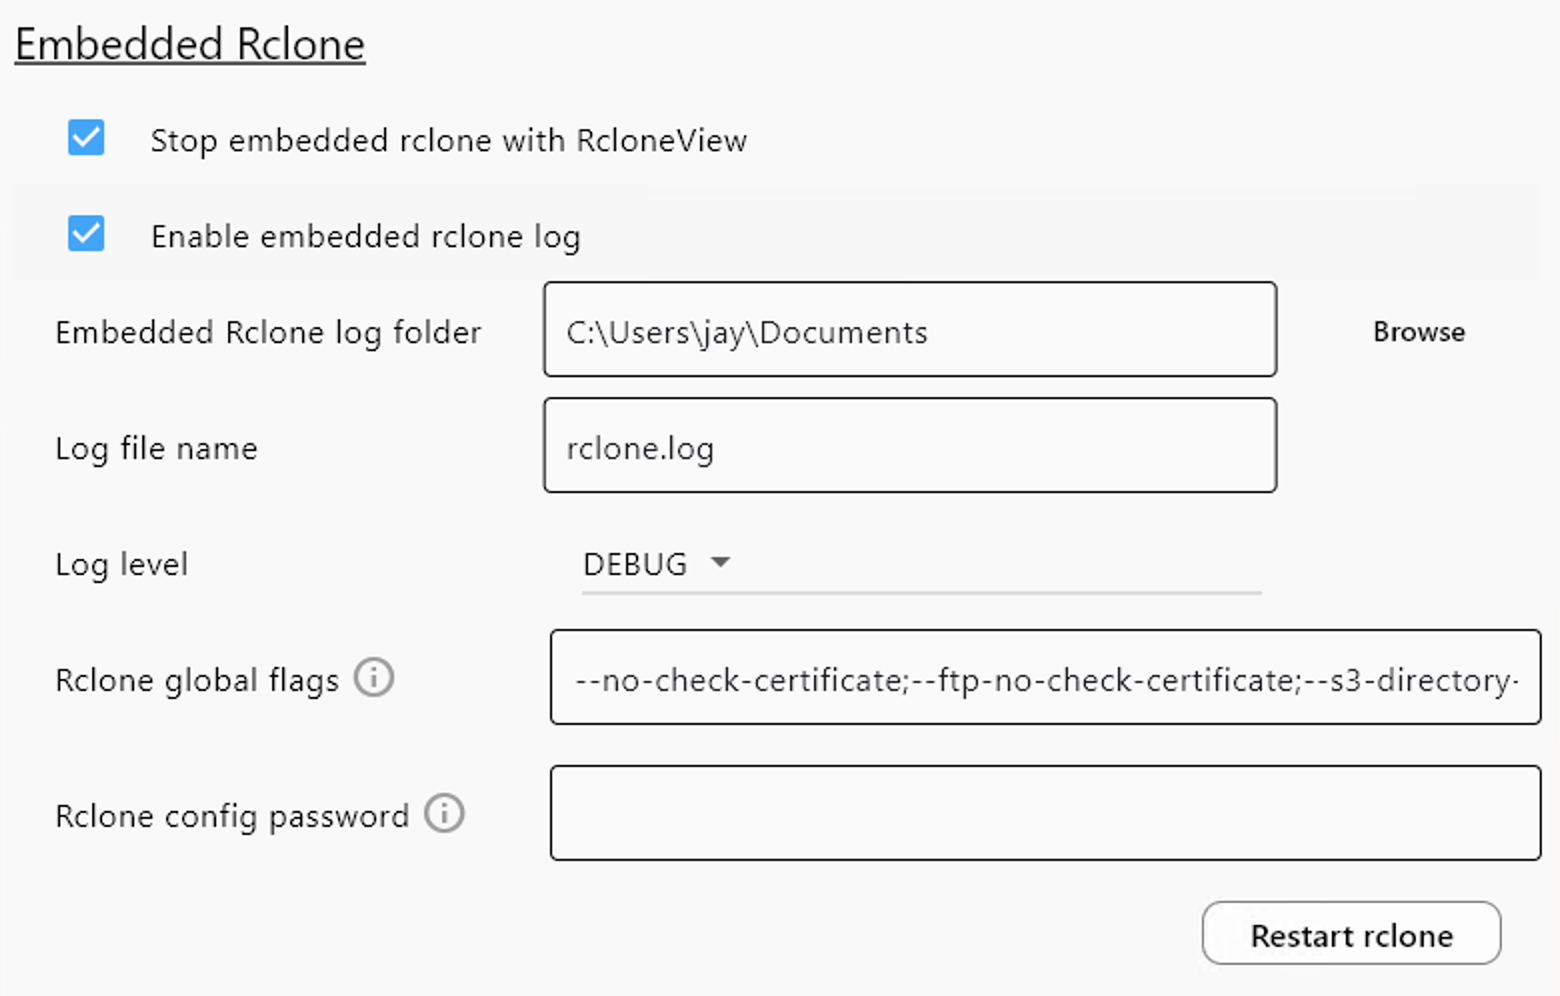
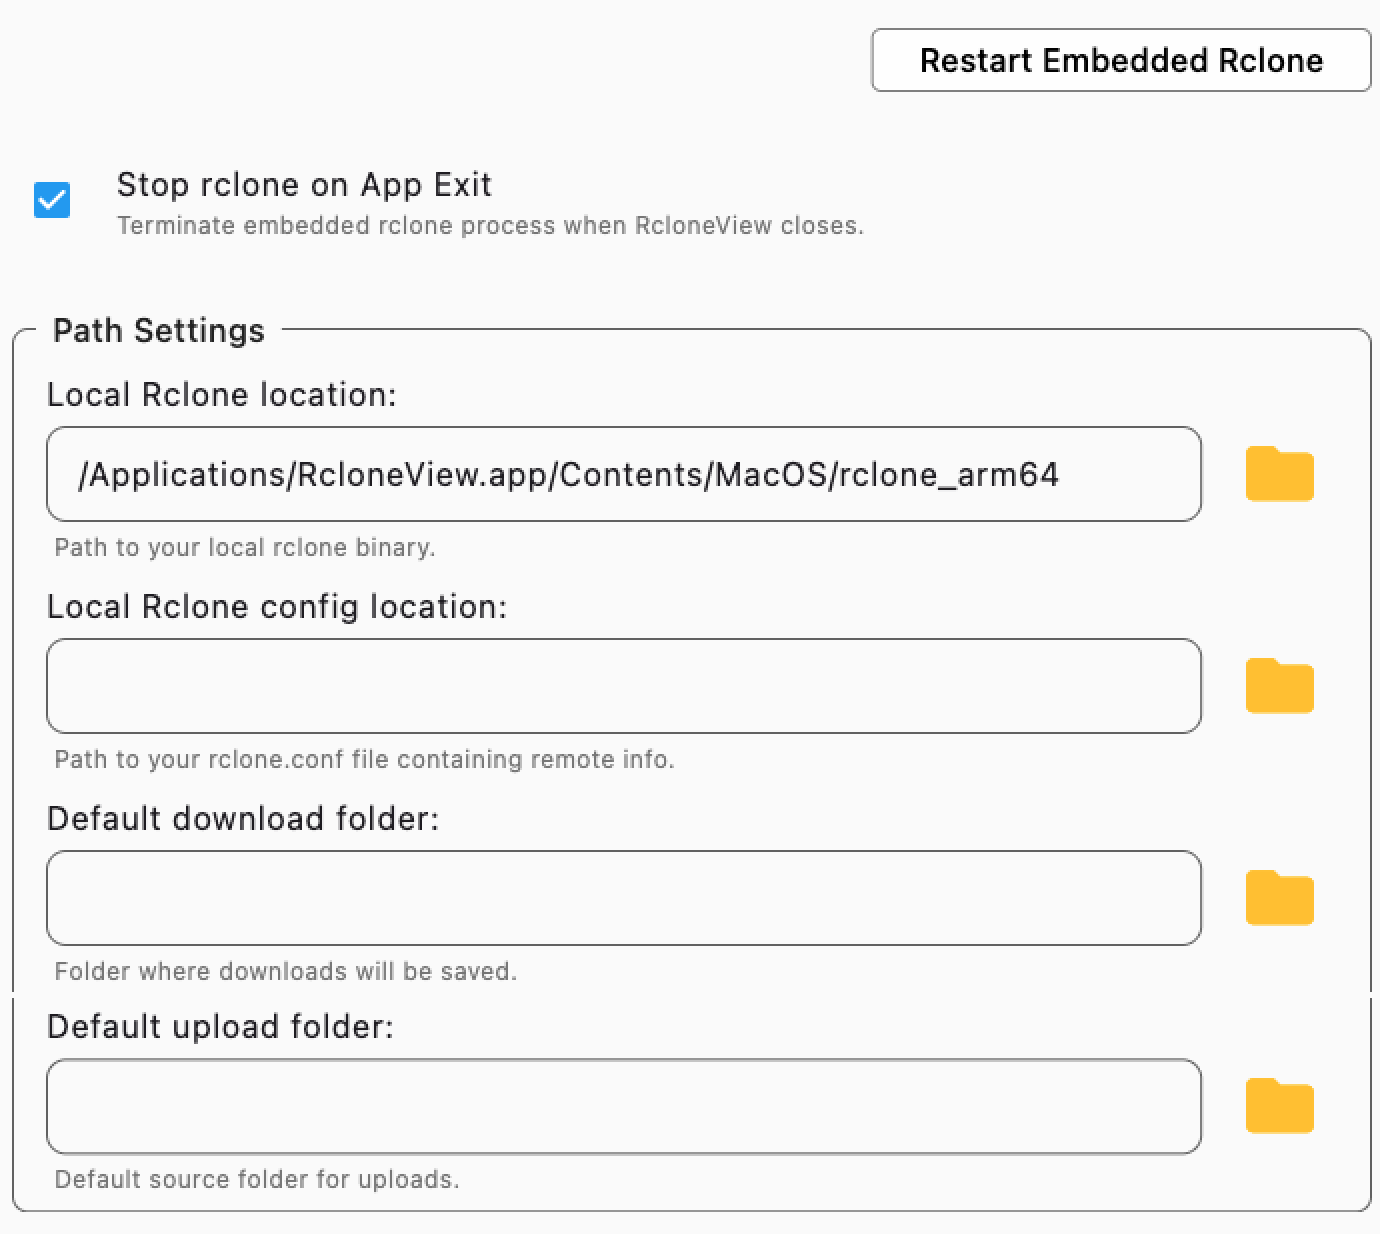
general settings 변경.

diff --git a/howto/rcloneview-basic/general-settings.md b/howto/rcloneview-basic/general-settings.md
@@ -1,6 +1,6 @@
 ---
 sidebar_position: 10
-description: Learn how to configure general preferences, interface layout, paths, and embedded Rclone settings in RcloneView.
+description: Learn how to configure general preferences, interface layout, Notifications, and embedded Rclone settings in RcloneView.
 keywords:
   - rcloneview
   - rclone
@@ -19,15 +19,27 @@ author: Jay
 ---
 # General Settings
 
-RcloneView's **Settings** page allows you to configure language, paths, logging options, and interface preferences. This guide explains each section and its functionality.
+RcloneView's **Settings** menu is divided into four tabs for better clarity and customization:
 
-## General Options
+- **General**
+- **Interfaces & Notifications**
+- **Embedded Rclone**
+- **Network & Misc.**
+
+Each tab allows you to configure different parts of the application. Below is a breakdown of each section.
+
+---
+
+## 🛠 General
 
 <img src="/support/images/en/howto/rcloneview-basic/general-settings.png" alt="general settings" class="img-medium img-center" />
+### Language
 
-- **Language**: Select your preferred language for the RcloneView user interface.  
+- **Language**: Choose your preferred UI language from the dropdown.
 
-- **Launch at login**: When enabled, RcloneView will automatically start when the user logs into the system.
+### Startup Behavior
+
+- **Launch at login**: Automatically starts RcloneView when you log into your system.
 
 :::important Auto Start: Scheduling and Mounting
 
@@ -37,67 +49,102 @@ When **Launch at login** is enabled:
 - Any remotes configured for auto-mounting in the [**Mount Manager**](./mount-cloud-storage-as-a-local-drive.md#method-1-mount-from-remote-explorer) will be mounted automatically when RcloneView starts.  
 :::
 
-### Locations
-Specify the locations for key components:
+- **Start minimized**: Launches RcloneView into the system tray.
 
-- **Local Rclone location**: Path to the `rclone` binary.
-- **Local Rclone config location**: Path to `rclone.conf`, where remote definitions are stored.
-- **Default download folder**: Folder used for downloads from remote to local.
-- **Default upload folder**: Folder used as the source for uploads to remote.
+- **Auto-detect Synology NAS**: Automatically scan the local network for Synology NAS devices.
 
-:::caution Restart rclone Required to Apply Location Changes
+### Reset
 
-Click **`Restart rclone`** to apply any changes made to the location settings.  
-This will restart the embedded Rclone instance and may interrupt any currently running jobs.  
-
-:::
-
-## Interface Preferences
-
-<img src="/support/images/en/howto/rcloneview-basic/interface-settings.png" alt="interface settings" class="img-medium img-center" />
-Customize how the interface behaves:
-
-- **Dark mode**: Enable dark theme.
-- **Theme color**: Choose from predefined accent colors.
-- **Confirm drag and drop**: Prompts confirmation when dragging files.
-- **Jobs view items**: Show or hide job types: Download, Upload, Sync.
-- **Show job state log**: Notify dialog to displays logs for each job execution.
-- **Show comparison completed**: Alerts dialog when folder comparison finishes.
-- **Show confirmation dialog before deleting files in compare**: Confirm dialog to add extra safety before deletion.
-- **Show sync completion notification**: Notify dialog when sync job completes.
-- **Show network error dialog**: Alert dialog for network failures.
-
-## Embedded Rclone Configuration
-
-<img src="/support/images/en/howto/rcloneview-basic/embedded-rclone-settings.png" alt="embedded rclone settings" class="img-medium img-center" />
-- **Stop embedded rclone with RcloneView**: Terminates the rclone process when RcloneView closes.
-- **Enable embedded rclone log**: Enables logging for embedded rclone operations.
-	Logging options:  
-	- **Log folder**: Path where log files are saved.  
-	- **Log file name**: Customize the filename for rclone logs.  
-	- **Log level**: Choose from standard rclone log levels (DEBUG, INFO, NOTICE, ERROR).  
-
-Advanced options:  
-- **Rclone global flags**: Enter any global rclone flags (e.g. `--no-check-certificate`).  
-- **Rclone config password**: Password for encrypted rclone configurations. If you set this password, then rclone config files will be encrypted.  
-
-:::caution Restart rclone Required to Apply Embedded Rclone Settings
-
-Click **`Restart rclone`** to apply any changes made to the Embedded Rclone settings.  
-This will restart the embedded Rclone instance and may interrupt any currently running jobs.  
-
-:::
-
-## Network & Logs
-
-<img src="/support/images/en/howto/rcloneview-basic/network-etc-settings.png" alt="network etc settings" class="img-medium img-center" />
-### Network
-- **`Proxy settings`**: Features coming soon.
-- **`Rclone connection manager`**: Open [**Connection Manager**](./connection-manager.md)
-
-### Etc
-- **`Application Log`**: Open log viewer for app-level logs.
-
-- **`Restore Settings`**: Reset all settings to default values.
+- **Restore Default Settings**: Resets all options to their original default values.
 
 ---
+
+## 🎛  Interfaces & Notifications
+
+<img src="/support/images/en/howto/rcloneview-basic/interface-settings.png" alt="interface settings" class="img-medium img-center" />
+### UI Appearance
+
+- **Dark mode**: Toggle between light and dark themes.
+- **Theme color**: Choose from available accent colors.
+
+### Drag and Drop
+
+- **Confirm drag and drop**: Enables a confirmation popup when moving files via drag-and-drop.
+
+### Show Job Types (Transfer Log Filters)
+
+Select which types of jobs to display in the Transfer Log panel:
+- **Download**
+- **Upload**
+- **Sync**
+
+<img src="/support/images/en/howto/rcloneview-basic/notification-dialogs-settings.png" alt="notification dialogs settings" class="img-medium img-center" />
+### Notification Dialogs
+
+Decide which types of pop-up notifications you'd like to receive while using RcloneView:
+
+- **Show job state log**: Display a detailed log dialog after each transfer job finishes.
+- **Show comparison completed**: Notify when a folder comparison task has completed successfully.
+- **Show confirmation before deleting files in compare**: Ask for confirmation before deleting any files during folder comparison.
+- **Show sync completion notification**: Show a message when a sync operation finishes.
+- **Show network error dialog**: Alert you immediately if a network connection error occurs during a job.
+
+---
+
+## ⚙ Embedded Rclone
+
+<img src="/support/images/en/howto/rcloneview-basic/embedded-rclone-settings.png" alt="embedded rclone settings" class="img-medium img-center" />
+
+### Embedded Lifecycle
+
+- **Stop rclone on App Exit**: Automatically shuts down the embedded `rclone` process when RcloneView is closed.
+
+:::caution Restart Required After Any Changes
+
+After modifying any setting in the **Embedded Rclone** tab — including path configuration, global flags, or logging options — click **Restart Embedded Rclone** to apply the changes.  
+This will restart the embedded Rclone process and may interrupt any currently running jobs.
+
+:::
+### Path Settings
+
+- **Local Rclone location**: Absolute path to your `rclone` binary.
+- **Local Rclone config location**: Path to your `rclone.conf` file (contains remote info).
+- **Default download folder**: Directory where downloaded files will be saved.
+- **Default upload folder**: Directory used as the source for upload jobs.
+
+   <img src="/support/images/en/howto/rcloneview-basic/embedded-rclone-advanced-options-settings.png" alt="embedded rclone advanced options settings" class="img-medium img-center" />
+### Advanced Options
+
+- **Global Rclone Flags**: Additional flags to pass to rclone (e.g., `--s3-directory-markers`).
+- **Config Password**: Password for encrypted rclone configurations. If you set this password, then rclone config files will be encrypted.
+
+<img src="/support/images/en/howto/rcloneview-basic/embedded-rclone-logging-configuration-settings.png" alt="embedded rclone logging configuration settings" class="img-medium img-center" />
+### Logging Configuration
+
+- **Enable rclone Logging**: Activate file-based logging for Rclone operations.
+- **Log folder**: Directory to store log files.
+- **Log file name**: Default filename for logs.
+- **Log level**: Choose verbosity level (DEBUG, INFO, NOTICE, ERROR).
+
+---
+
+## 🌐 Network & Misc
+
+<img src="/support/images/en/howto/rcloneview-basic/network-etc-settings.png" alt="network etc settings" class="img-medium img-center" />
+
+### Network
+
+- **Proxy settings**: Configure proxy (feature coming soon).
+- **Rclone connection manager**: View or manage active Rclone connections.  
+  → [Read more](./connection-manager.md)
+
+### Diagnostics
+
+- **Application Log**: Opens internal logs to aid troubleshooting or bug reporting.
+
+---
+
+## ✅ Summary
+
+These settings allow you to fully control how RcloneView behaves at startup, how it interfaces with Rclone, and how it communicates job results or errors to you. Adjust them to match your workflow, whether you're scheduling syncs, automounting drives, or troubleshooting network issues.
+

diff --git a/howto/FAQ/increase-file-handle-limit-on-macos.md b/howto/FAQ/increase-file-handle-limit-on-macos.md
@@ -1,0 +1,113 @@
+---
+sidebar_position: 1
+description: Learn how to resolve "Too many open files" errors on macOS by increasing the file handle limit for smoother operation of RcloneView.
+keywords:
+  - rcloneview
+  - macos
+  - file handle limit
+  - rclone
+  - plist
+  - ulimit
+tags:
+  - RcloneView
+  - macOS
+  - Troubleshooting
+  - FAQ
+  - Performance
+  - system-settings
+date: 2025-07-25
+author: Jay
+---
+# Increasing File Handle Limit on macOS
+
+When using RcloneView to process a large number of files (e.g., syncing or copying hundreds of files simultaneously), you may encounter the following error:
+
+> **Too many open files**
+
+This occurs because macOS imposes a limit on the number of file descriptors (file handles) a process can open. By default, this value is often set to **256 or 1024**, which may be insufficient for heavy operations.
+
+---
+
+## 🔍 How to Check Current Limits
+
+### Terminal Command:
+
+```bash
+ulimit -n             # Current shell session soft limit
+launchctl limit maxfiles  # System-wide soft and hard limits
+```
+
+---
+
+## 🛠 Recommended Configuration
+
+- **Soft Limit:** 65536
+- **Hard Limit:** 65536
+
+This configuration supports parallel jobs, mounting remotes, and large sync operations without hitting file descriptor limits.
+
+---
+
+## 📘 Step-by-Step: Permanent Limit Increase
+
+### 1. Create a LaunchDaemon plist file
+
+Open Terminal and run:
+
+```bash
+sudo nano /Library/LaunchDaemons/limit.maxfiles.plist
+```
+
+Paste the following content:
+
+```xml
+<?xml version="1.0" encoding="UTF-8"?>
+<!DOCTYPE plist PUBLIC "-//Apple//DTD PLIST 1.0//EN" "http://www.apple.com/DTDs/PropertyList-1.0.dtd">
+<plist version="1.0">
+<dict>
+   <key>Label</key>
+   <string>limit.maxfiles</string>
+   <key>ProgramArguments</key>
+   <array>
+       <string>launchctl</string>
+       <string>limit</string>
+       <string>maxfiles</string>
+       <string>65536</string>
+       <string>65536</string>
+   </array>
+   <key>RunAtLoad</key>
+   <true/>
+</dict>
+</plist>
+```
+
+### 2. Set proper permissions
+
+```bash
+sudo chmod 644 /Library/LaunchDaemons/limit.maxfiles.plist
+```
+
+### 3. Reboot your Mac
+
+```bash
+sudo reboot
+```
+
+### 4. Confirm the new limits
+
+```bash
+launchctl limit maxfiles
+```
+
+---
+## 📎 Reference Resources
+
+- Apple Support Community: [Too many open files](https://discussions.apple.com/thread/1449787)
+- Example Gist: [limit.maxfiles.plist configuration](https://gist.github.com/tombigel/d503800a282fcadbee14b537735d202c)
+- Blog Guide: [Hiltmon - Increasing file descriptor ulimit on macOS](https://hiltmon.com/blog/2023/01/01/increasing-file-descriptor-ulimit-on-macos/)
+
+---
+
+For any issues, contact support at **[rcloneview@bdrive.com](mailto:rcloneview@bdrive.com)**.
+
+
